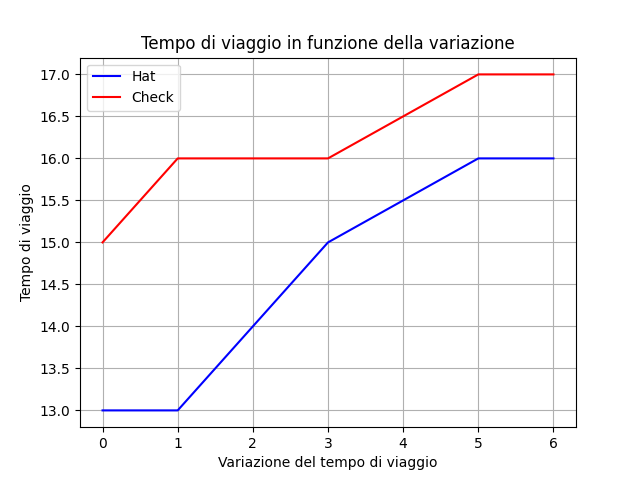
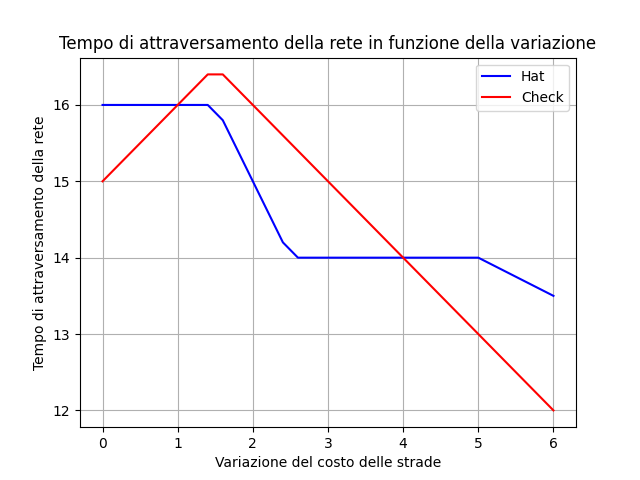
cambia codice

diff --git a/tesi/2_programma.tex b/tesi/2_programma.tex
@@ -78,7 +78,7 @@ class AbstractParam(ABC):
     def variation_hat(self) -> SafeArray:
         """
             Ritorna array di dimensione (*@$N$@*), i cui elementi sono 1 o 0:
-                - 'return[i]'==1: se viene utilizzata una variazione, i costi della strada 'i' variano per la popolazione (*@$\textit{hat}$@*)
+                - 'return[i]'!=0: se viene utilizzata una variazione, i costi della strada 'i' variano per la popolazione (*@$\textit{check}$@*) di un coefficiente 'return[i]', maggiore o minore di 0
                 - 'return[i]'==0: se viene utilizzata una variazione, i costi della strada 'i' non variano per la popolazione (*@$\textit{hat}$@*)
         """
         pass
@@ -87,8 +87,8 @@ class AbstractParam(ABC):
     @abstractmethod
     def variation_check(self) -> SafeArray:
         """
-            Ritorna array di dimensione (*@$N$@*), i cui elementi sono 1 o 0:
-                - 'return[i]'==1: se viene utilizzata una variazione, i costi della strada 'i' variano per la popolazione (*@$\textit{check}$@*)
+            Ritorna array di dimensione (*@$N$@*), i cui elementi sono:
+                - 'return[i]'!=0: se viene utilizzata una variazione, i costi della strada 'i' variano per la popolazione (*@$\textit{check}$@*) di un coefficiente 'return[i]', maggiore o minore di 0
                 - 'return[i]'==0: se viene utilizzata una variazione, i costi della strada 'i' non variano per la popolazione (*@$\textit{check}$@*)
         """
         pass
@@ -241,7 +241,7 @@ def getNashEquilibria(self):
 \end{lstlisting}
 
 Il metodo \textbf{Initializer::graphVariations} calcola i parametri utili alla costruzione del grafico rappresentante la variazione del tempo di 
-attraversamento della rete rispetto alla variazione dei costi delle strade definiti in \textbf{param}. Decide se costruire tale grafico e presentarlo all'utente
+attraversamento della rete rispetto alla variazione dei costi delle strade definita in \textbf{param}, Listato~\ref{script:1}. Decide se costruire tale grafico e presentarlo all'utente
 verificando il valore attribuito a \textbf{param.show\_result}. Ritorna, in ogni caso, i valori utili a disegnarlo.
 
 \begin{lstlisting}[style=myStile, caption={Initializer::graphVariations}, label={script:6}]
@@ -328,7 +328,7 @@ Per calcolare l'equlibrio di Nash sfruttiamo la dimostrazione (vedi \cite[Cap. 4
 Cominciamo da un $(\widehat{\theta}, \widecheck{\theta})\in S^{\widehat{n}}\times S^{\widecheck{\theta}}$ generico; si ricava $\mathcal{F}(\widehat{\theta}, \widecheck{\theta})$,
 che va a sostituire il valore di $(\widehat{\theta}, \widecheck{\theta})$, salvato invece come $(\widehat{\theta}_{prev}, \widecheck{\theta}_{prev})$. Questa operazione viene ripetuta finché
 $\norm{\widehat{\theta} - \widehat{\theta}_{prev}} < \widehat{limit}$ e $\norm{\widecheck{\theta} - \widecheck{\theta}_{prev}} < \widecheck{limit}$, dove i $limit$ sono limiti di precisione
-definiti in \textbf{param}, vedi Lisato~\ref{script:1}. È utile introdurre anche un coefficiente di variazione, utile per il calcolo effettuato nel Listato~\ref{script:6}, che verrà applicato ai costi delle strade in
+definiti in \textbf{Initializer}, vedi Lisato~\ref{script:4}. È utile introdurre anche un coefficiente di variazione, utile per il calcolo effettuato nel Listato~\ref{script:6}, che verrà applicato ai costi delle strade
 durante il calcolo dei tempi di percorrenza della rete, vedi Listato~\ref{script:11}.
 
 \begin{lstlisting}[style=myStile, caption={Computer::getNashEquilibriaVariation}, label={script:9}]

diff --git a/project/parameters/parameters5/Parameters.py b/project/parameters/parameters5/Parameters.py
@@ -8,20 +8,8 @@ from utility.AbstractParam import AbstractParam
 class Parameters(AbstractParam):
 
     @property
-    def n_roads(self):
-        return 6
-
-    @property
-    def n_routes_hat(self):
-        return 8
-
-    @property
-    def n_routes_check(self):
-        return 2
-
-    @property
     def operation(self):
-        return Operation.NASH_EQ_VARIATIONS
+        return Operation.NASH_EQ
     
     @property
     def show_result(self):
@@ -50,11 +38,13 @@ class Parameters(AbstractParam):
     @property
     def Gamma_hat(self):
         return SafeArray([[1., 1., 1., 1., 0., 0., 0., 0.],
-                          [1., 1., 0., 0., 1., 1., 0., 0.],
+                          [1., 1., 0., 0., 0., 0., 1., 1.],
                           [1., 0., 1., 0., 1., 0., 1., 0.],
                           [0., 0., 0., 0., 1., 1., 1., 1.],
-                          [0., 0., 1., 1., 0., 0., 1., 1.],
-                          [0., 1., 0., 1., 0., 1., 0., 1.]])
+                          [0., 0., 1., 1., 1., 1., 0., 0.],
+                          [0., 1., 0., 1., 0., 1., 0., 1.],
+                          [0., 0., 1., 1., 0., 0., 0., 0.],
+                          [0., 0., 0., 0., 0., 0., 1., 1.]])
     
     @property
     def Gamma_check(self) -> SafeArray:
@@ -63,26 +53,30 @@ class Parameters(AbstractParam):
                           [1., 0.],
                           [0., 0.],
                           [0., 0.],
-                          [0., 1.]])
+                          [0., 1.],
+                          [0., 0.],
+                          [0., 0.]])
     
     @property
     def variation_hat(self):
-        return SafeArray([0., 0., 1., 0., 0., 0.])
+        return SafeArray([0., 0., -1., 0., 0., 0., 0., 0.])
     
     @property
     def variation_check(self):
-        return SafeArray([0., 0., 1., 0., 0., 0.])
+        return SafeArray([0., 0., -1., 0., 0., 1., 0., 0.])
     
     @override
     def tau_hat(self, eta_hat, eta_check):
         return (
             SafeArray([
-                2.+eta_hat[0, 0]+2*eta_check[0, 0],
-                2.+eta_hat[1, 0]+2*eta_check[1, 0],
-                2.+eta_hat[2, 0]+2*eta_check[2, 0],
+                3.+eta_hat[0, 0]+eta_check[0, 0],
+                3.+eta_hat[1, 0]+eta_check[1, 0],
+                3.+eta_hat[2, 0]+eta_check[2, 0] + self.MAX,
                 4.+eta_hat[3, 0],
-                4.+eta_hat[4, 0],
-                4.+eta_hat[5, 0]+2*eta_check[5, 0]
+                5.+eta_hat[4, 0],
+                4.+eta_hat[5, 0]+2*eta_check[5, 0],
+                0,
+                0
             ])
         )
     
@@ -90,11 +84,13 @@ class Parameters(AbstractParam):
     def tau_check(self, eta_hat, eta_check):
         return (
             SafeArray([
-                5,
-                5,
-                5,
+                4,
+                4,
+                4 + self.MAX,
                 np.inf,
                 np.inf,
-                4.+eta_hat[5, 0]+2*eta_check[5, 0]
+                4.+eta_hat[5, 0]+2*eta_check[5, 0],
+                np.inf,
+                np.inf
             ])
         )

diff --git a/project/Initializer.py b/project/Initializer.py
@@ -65,6 +65,9 @@ class Initializer:
         time_of_travel_hat = np.zeros(N)
         time_of_travel_check = np.zeros(N)
         
+        thetas_hat = np.zeros((self.param.n_routes_hat, N))
+        thetas_check = np.zeros((self.param.n_routes_check, N))
+        
         theta_hat = self.initial_theta_hat
         theta_check = self.initial_theta_check
         
@@ -85,19 +88,61 @@ class Initializer:
             time_of_travel_hat[idx] = T_hat[index_hat]
             time_of_travel_check[idx] = T_check[index_check]
             
-        if self.param.show_result: self.showResultPlot(variation_values, time_of_travel_hat, time_of_travel_check)
+            thetas_hat[:, idx] = theta_hat[:, 0]
+            thetas_check[:, idx] = theta_check[:, 0]
+            
+        if self.param.show_result: self.showResultTimeVariation(variation_values, time_of_travel_hat, time_of_travel_check)
+        if self.param.show_result: 
+            self.showResultEqVariation(variation_values, thetas_hat, "hat")
+            self.showResultEqVariation(variation_values, thetas_check, "check")
         
         return variation_values, time_of_travel_hat, time_of_travel_check
     
     
-    def showResultPlot(self, variation_values, time_of_travel_hat, time_of_travel_check):
+    def showResultTimeVariation(self, variation_values, time_of_travel_hat, time_of_travel_check):
         plt.plot(variation_values, time_of_travel_hat, label='Hat', color='blue')
         plt.plot(variation_values, time_of_travel_check, label='Check', color='red')
         plt.xlabel('Variazione del costo delle strade')
         plt.ylabel('Tempo di attraversamento della rete')
-        plt.title('Tempo di attraversamento della rete in funzione della variazione')
+        plt.title('Tempo di attraversamento della rete\nin funzione della variazione dei costi')
         plt.legend()
         plt.grid(True)
+        plt.show()
+        
+    def showResultEqVariation(self, variation_values, thetas, pop):
+        import matplotlib.pyplot as plt
+        import numpy as np
+
+        n = thetas.shape[0]
+        # determinare dimensioni griglia
+        cols = int(np.ceil(np.sqrt(n)))
+        rows = int(np.ceil(n / cols))
+
+        # calcolo minimo e massimo di tutti i dati
+        y_min = np.min(thetas)
+        y_max = np.max(thetas)
+
+        fig, axes = plt.subplots(rows, cols, figsize=(4 * cols, 3 * rows))
+        axes = axes.flatten()
+
+        for i in range(n):
+            ax = axes[i]
+            ax.plot(variation_values, thetas[i, :], linewidth=1.8)
+
+            ax.set_title(f'Theta_{pop}_{i}')
+            ax.set_xlabel('Variazione del costo delle strade')
+            ax.set_ylabel('Distribuzione popolazione')
+
+            # usa la stessa scala su tutti i subplot
+            ax.set_ylim(y_min, y_max)
+
+            ax.grid(True)
+
+        # rimuovere eventuali subplot vuoti
+        for j in range(n, len(axes)):
+            fig.delaxes(axes[j])
+
+        plt.tight_layout()
         plt.show()
  
  

diff --git a/project/utility/AbstractParam.py b/project/utility/AbstractParam.py
@@ -10,19 +10,16 @@ class AbstractParam(ABC):
     # ===== PARAMETRI BASE =====
     
     @property
-    @abstractmethod
     def n_roads(self) -> int:
-        pass
+        return self.Gamma_hat.shape[0]
 
     @property
-    @abstractmethod
     def n_routes_hat(self) -> int:
-        pass
+        return self.Gamma_hat.shape[1]
 
     @property
-    @abstractmethod
     def n_routes_check(self) -> int:
-        pass
+        return self.Gamma_check.shape[1]
 
     @property
     @abstractmethod

diff --git a/project/parameters/parameters3/Parameters.py b/project/parameters/parameters3/Parameters.py
@@ -9,18 +9,6 @@ from utility.AbstractParam import AbstractParam
 class Parameters(AbstractParam):
 
     @property
-    def n_roads(self):
-        return 5
-
-    @property
-    def n_routes_hat(self):
-        return 3
-
-    @property
-    def n_routes_check(self):
-        return 3
-
-    @property
     def operation(self):
         return Operation.NASH_EQ_VARIATIONS
 

diff --git a/project/parameters/parameters4/Parameters.py b/project/parameters/parameters4/Parameters.py
@@ -8,18 +8,6 @@ from utility.AbstractParam import AbstractParam
 class Parameters(AbstractParam):
 
     @property
-    def n_roads(self):
-        return 6
-
-    @property
-    def n_routes_hat(self):
-        return 3
-
-    @property
-    def n_routes_check(self):
-        return 2
-
-    @property
     def operation(self):
         return Operation.NASH_EQ
     

diff --git a/project/parameters/parameters1/Parameters.py b/project/parameters/parameters1/Parameters.py
@@ -9,18 +9,6 @@ from utility.AbstractParam import AbstractParam
 class Parameters(AbstractParam):
 
     @property
-    def n_roads(self):
-        return 5
-
-    @property
-    def n_routes_hat(self):
-        return 2
-
-    @property
-    def n_routes_check(self):
-        return 2
-
-    @property
     def operation(self):
         return Operation.NASH_EQ
 

diff --git a/project/parameters/parameters2/Parameters.py b/project/parameters/parameters2/Parameters.py
@@ -9,18 +9,6 @@ from utility.AbstractParam import AbstractParam
 class Parameters(AbstractParam):
 
     @property
-    def n_roads(self):
-        return 7
-
-    @property
-    def n_routes_hat(self):
-        return 2
-
-    @property
-    def n_routes_check(self):
-        return 2
-
-    @property
     def operation(self):
         return Operation.NASH_EQ
 
